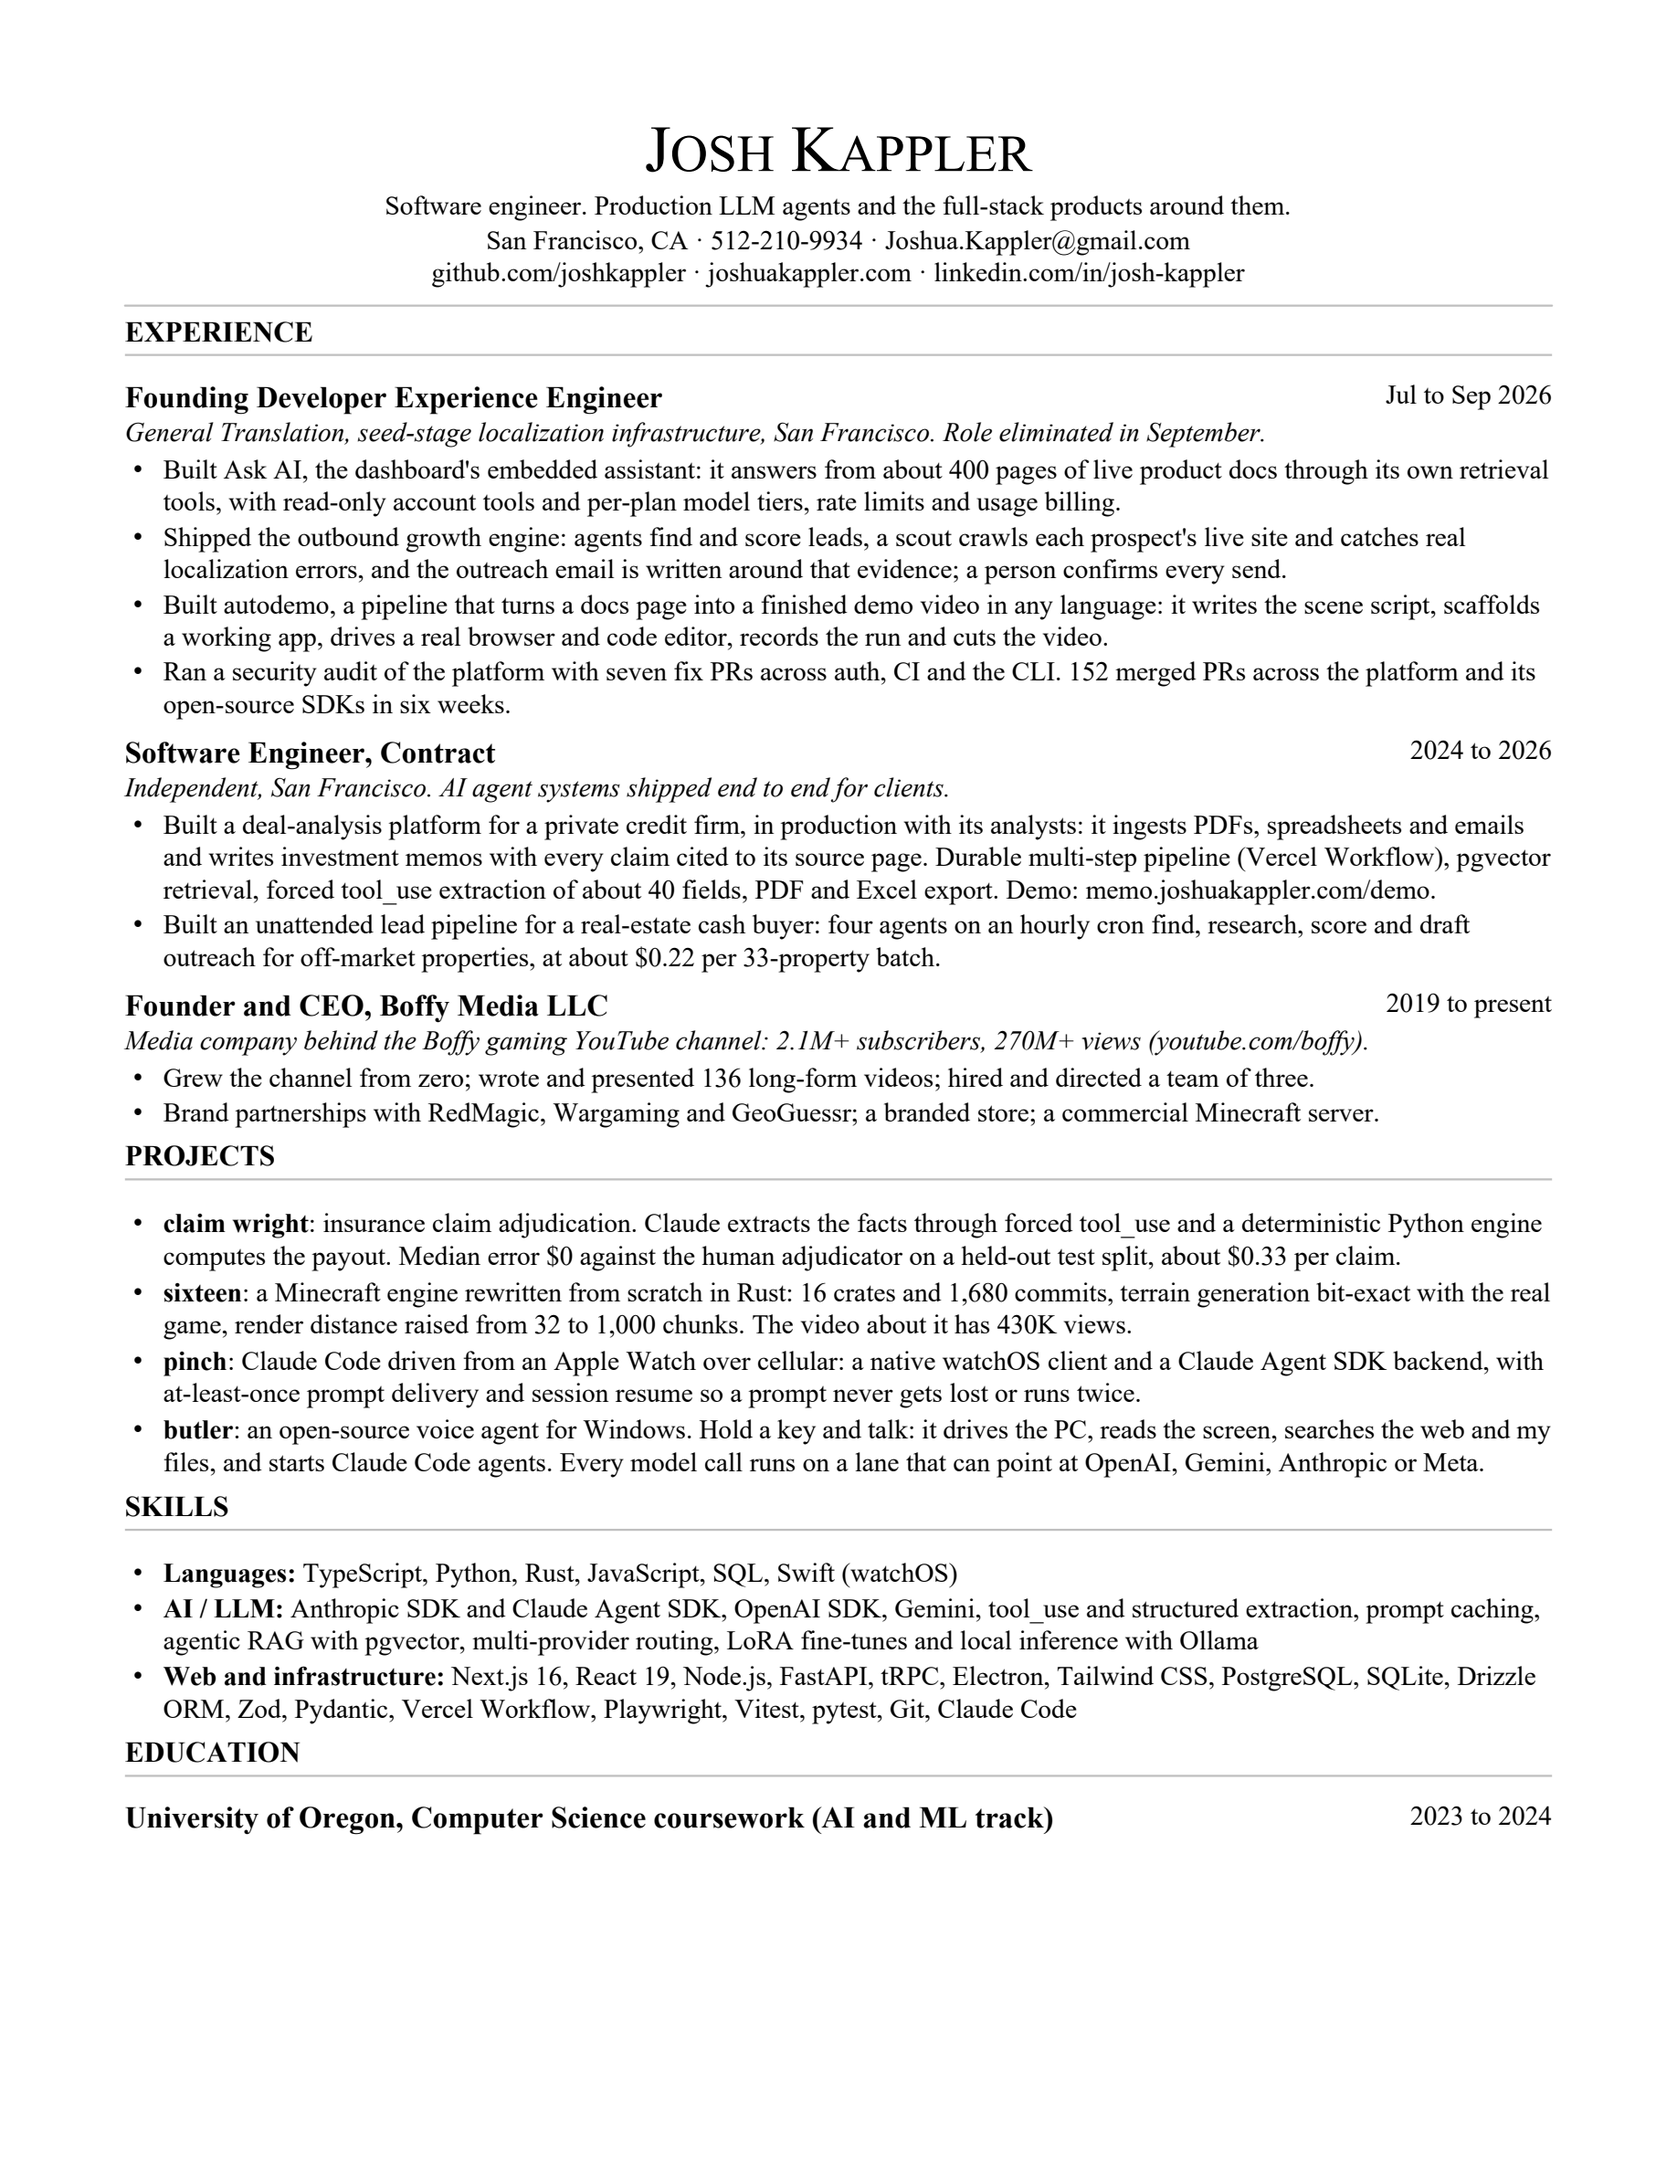
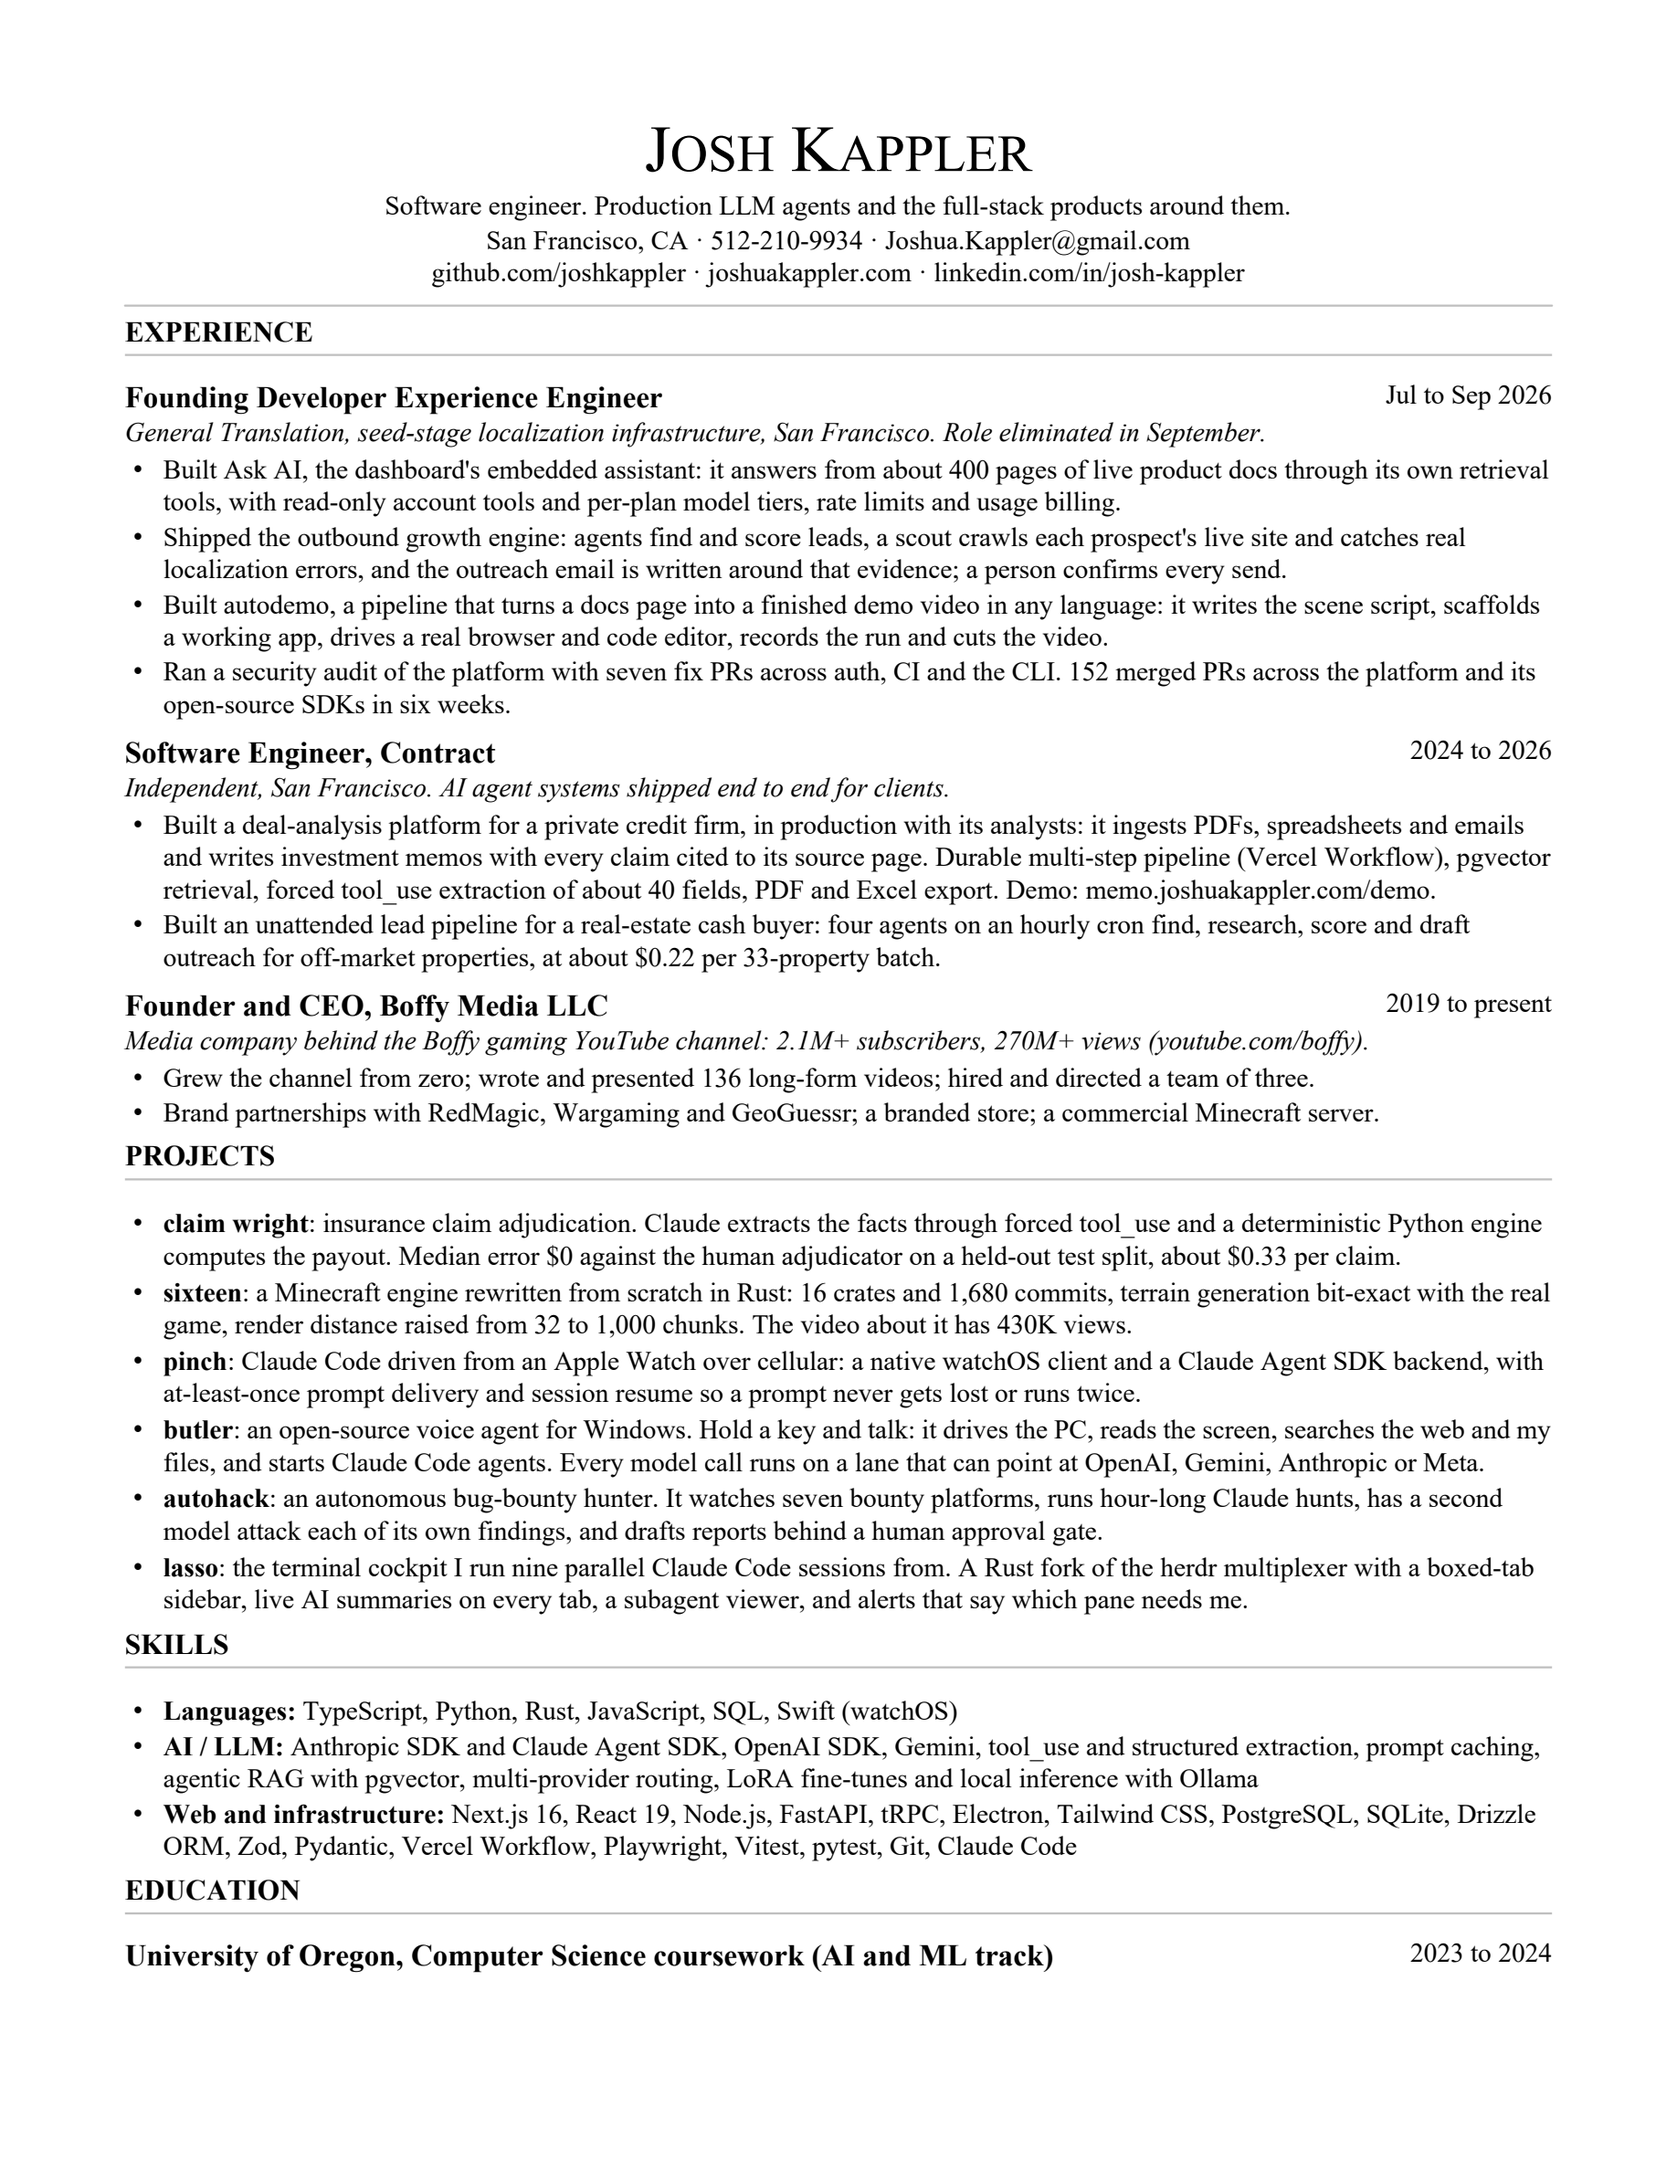
site: bring back autohack and lasso, square every paragraph
Adds autohack and lasso (the herdr layout fork) back to projects and serves
the six-project resume. Four entries were reworded so each last line fills
94.8 to 98.6% of the column.

Changed region(s): [[0.0621, 0.6852, 0.9314, 0.9032], [0.9003, 0.8721, 0.9314, 0.9032], [0.8382, 0.8721, 0.8693, 0.9032]]

diff --git a/src/app/page.tsx b/src/app/page.tsx
@@ -51,12 +51,22 @@ const projects: Item[] = [
   {
     name: "pinch",
     href: "https://github.com/JoshKappler/apple-watch-claude-code",
-    line: "Claude Code, driven from an Apple Watch over a cellular connection. The agent itself runs on my Mac behind an authenticated tunnel; the watch is a native watchOS client: dictate a prompt, pinch to send it, roll the crown to approve diffs, shake your wrist to stop it.",
+    line: "Claude Code, driven from an Apple Watch over a cellular connection. The agent itself runs on my Mac behind an authenticated tunnel; the watch is a native watchOS client: dictate a prompt, pinch to send it, roll the crown to approve diffs, shake your wrist to stop it cold.",
   },
   {
     name: "butler",
     href: "https://github.com/JoshKappler/butler",
-    line: "A voice agent for my Windows desktop, open source. Hold a key and talk: it opens apps, reads the screen, searches the web and my files, and starts Claude Code agents. Each job can run on OpenAI, Gemini, Anthropic or Meta, and it all lives in a liquid-glass Dynamic Island.",
+    line: "A voice agent for my Windows desktop, open source. Hold a key and talk: it opens apps, reads the screen, searches the web and my files, and starts Claude Code agents. Each job can run on OpenAI, Gemini, Anthropic or Meta, and it all lives inside a liquid-glass Dynamic Island.",
+  },
+  {
+    name: "autohack",
+    href: "https://github.com/JoshKappler/autohack",
+    line: "An autonomous bug-hunter that watches seven public bug bounty platforms, spawns hour-long hunts, adversarially reviews every one of its own findings, and then drafts its submission-ready reports.",
+  },
+  {
+    name: "lasso",
+    href: "https://github.com/JoshKappler/herdr-layout",
+    line: "The terminal cockpit I live in: a forked multiplexer herding more Claude Code sessions than I can watch. Live AI summaries on every tab, a subagent viewer panel, and morse that beeps which pane wants me.",
   },
 ];
 
@@ -249,7 +259,7 @@ export default function Home() {
           Boffy
         </a>
         , a gaming YouTube channel with 2.1M+ subscribers and 270M+ lifetime views
-        across 136 long-form videos, each one written and presented by me.
+        across all 136 long-form videos, each one written and presented by me.
       </p>
 
       <ItemList title="projects" items={projects} />
